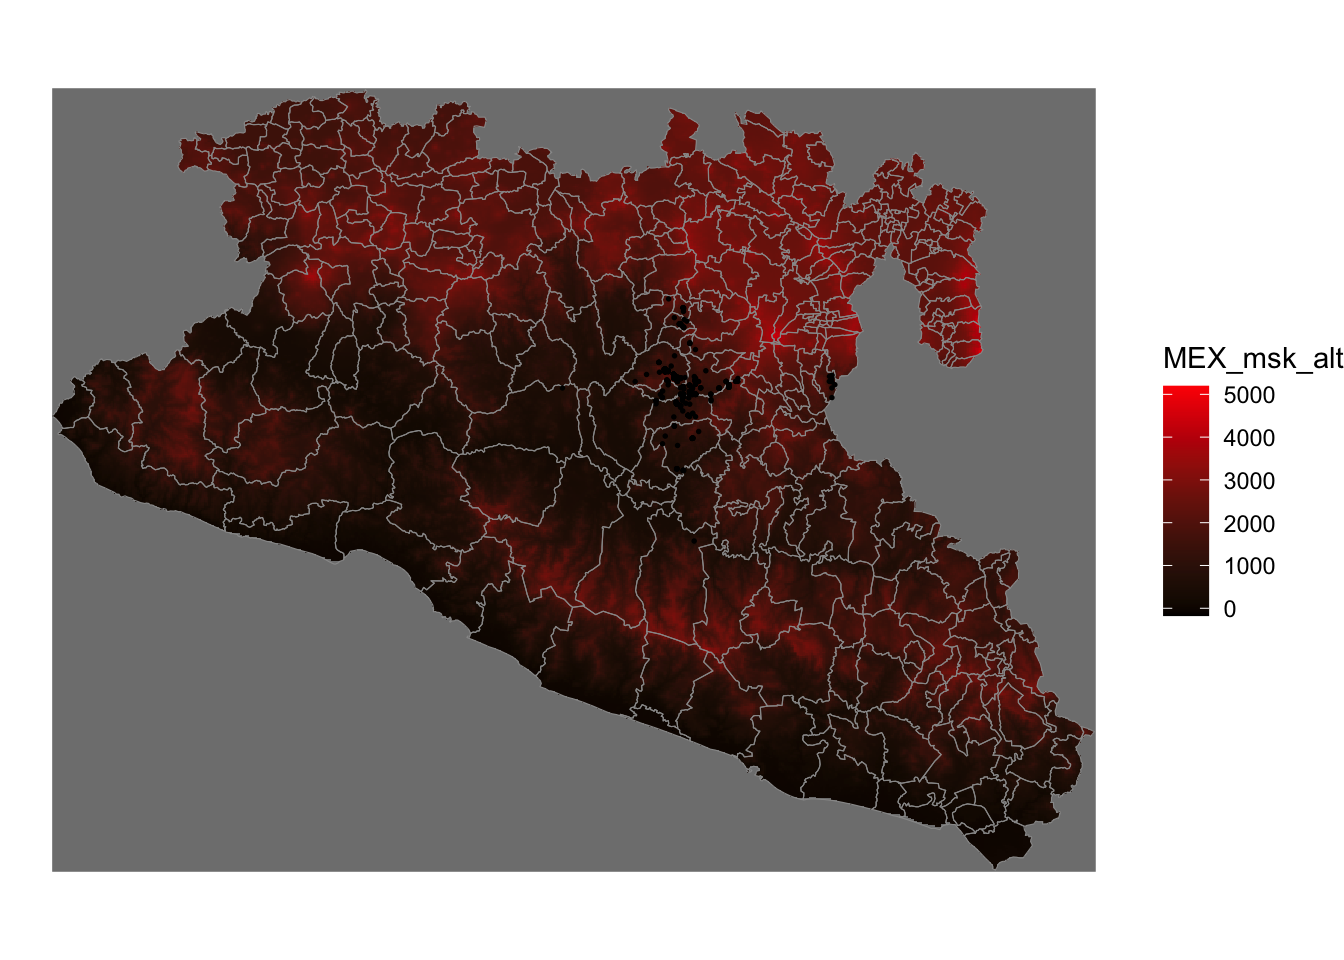
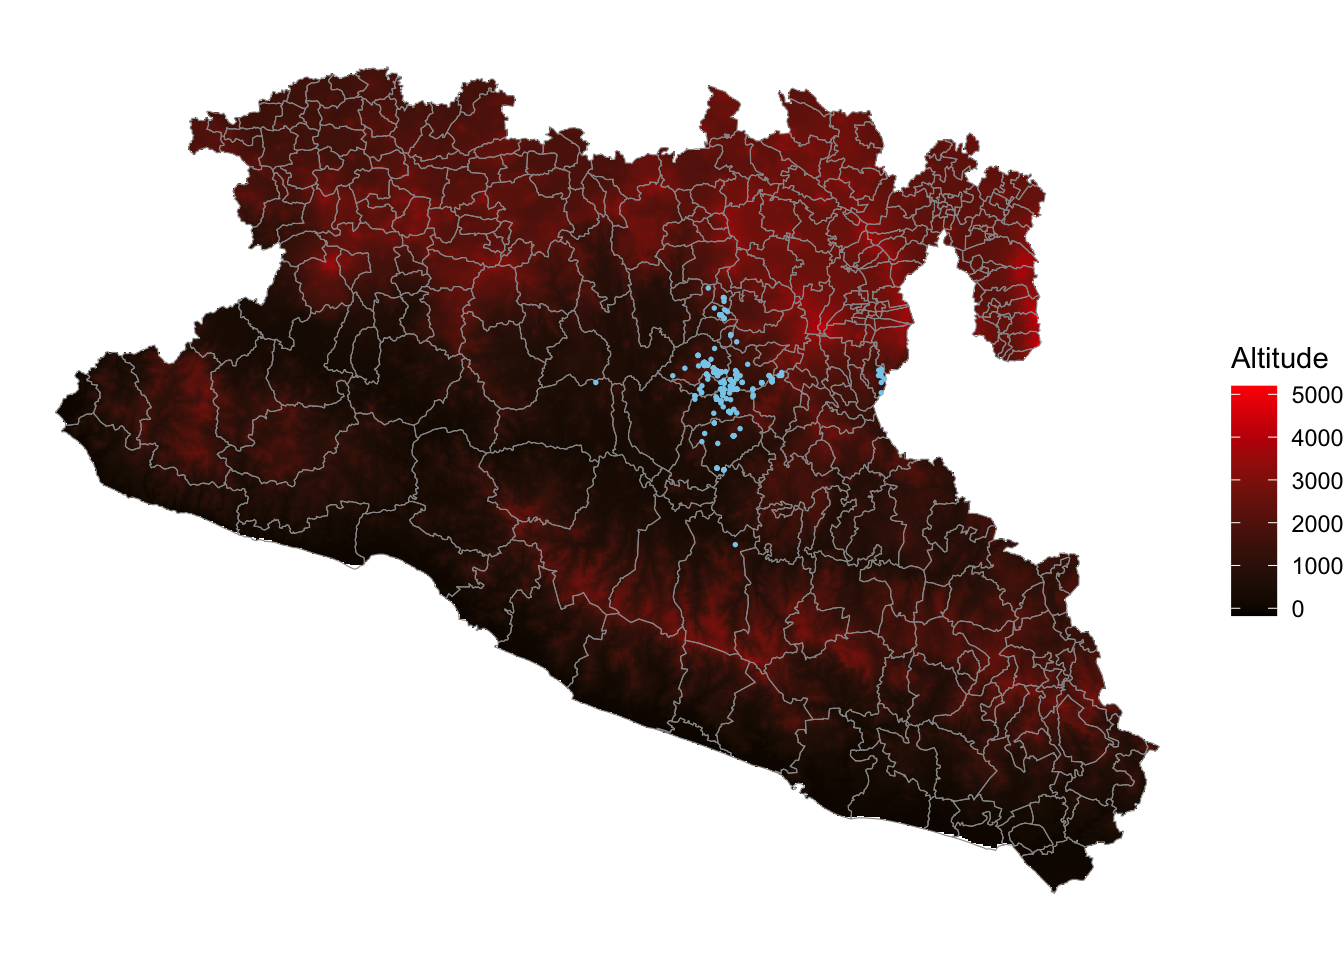
updated spatial

diff --git a/2a_VectorsRasters.html b/2a_VectorsRasters.html
@@ -758,11 +758,11 @@ together wit ggplot</h1>
 <pre class="r"><code>ggplot() +
   geom_stars(data = Mxst) +
   geom_sf(data = Area, fill = NA, col = &#39;grey60&#39;) +
-  geom_sf(data = capturesSp, cex = 0.3) +
+  geom_sf(data = capturesSp, cex = 0.3, col = &#39;skyblue&#39;) +
   theme_void() +
-  scale_fill_gradient(low = &#39;black&#39;, high = &#39;red&#39;)</code></pre>
+  scale_fill_gradient(low = &#39;black&#39;, high = &#39;red&#39;, na.value = NA) +
+  labs(fill = &#39;Altitude&#39;)</code></pre>
 <p><img src="2a_VectorsRasters_files/figure-html/unnamed-chunk-17-1.png" width="672" /></p>
-<hr />
 </div>
 <div id="getting-data-for-other-countriesregions" class="section level1"
 number="4">
@@ -787,6 +787,92 @@ ggplot() +
   geom_sf(data = Sp) +
   theme_void()</code></pre>
 <p><img src="2a_VectorsRasters_files/figure-html/unnamed-chunk-18-1.png" width="672" /></p>
+<hr />
+</div>
+<div id="cartography" class="section level1" number="5">
+<h1><span class="header-section-number">5</span> Cartography</h1>
+<p>Ok now that we are familiarized with spatial data and visualization,
+we can go more detailed into making a pretty map.</p>
+<p>First lets aggregate all the capture regarding the year:</p>
+<pre class="r"><code>cap &lt;- capturesSp %&gt;% # Captures data
+  count(Loc, wt = captures) %&gt;%  # count the number of captures by location
+  rename(captures = n) # rename the variable 
+
+# Lets see how it looks like
+ggplot(data = cap) +
+  geom_sf(data = Area) +
+  geom_sf(aes(size = captures), alpha = 0.5)</code></pre>
+<p><img src="2a_VectorsRasters_files/figure-html/unnamed-chunk-19-1.png" width="672" /></p>
+<div id="change-the-map-extent" class="section level2" number="5.1">
+<h2><span class="header-section-number">5.1</span> Change the map
+extent</h2>
+<p>Most of the data is concentrated in a specific region and its hard to
+see it clear, for this we will zoom in into the region with our points.
+We can use the function <code>lims()</code> to specify the x and y
+limits of our map. We will define the limits based on the bounding box
+of the captures data and save this to an object so we can use it
+later</p>
+<pre class="r"><code>bbox &lt;- st_bbox(capturesSp) # Get the bounding box
+bbox &lt;- lims(x = bbox[c(1, 3)], y = bbox[c(2, 4)]) # specify the limits and save to an object 
+
+# Visualize the map 
+ggplot() + # we set the canvas
+  geom_sf(data = Area,col = &#39;grey60&#39;) +
+  geom_sf(data = cap, aes(size = captures), alpha = 0.5) +
+  theme_void() +
+  scale_fill_gradient(low = &#39;black&#39;, high = &#39;red&#39;) +
+  scale_size(range = c(0.1, 3)) +
+  bbox</code></pre>
+<p><img src="2a_VectorsRasters_files/figure-html/unnamed-chunk-20-1.png" width="672" /></p>
+</div>
+<div id="scale-bar" class="section level2" number="5.2">
+<h2><span class="header-section-number">5.2</span> Scale bar</h2>
+<pre class="r"><code>library(ggspatial)
+
+ggplot() +
+  geom_sf(data = Area,col = &#39;grey60&#39;) +
+  geom_sf(data = cap, aes(size = captures), alpha = 0.5) +
+  theme_void() +
+  scale_fill_gradient(low = &#39;black&#39;, high = &#39;red&#39;) +
+  bbox +
+  annotation_scale(location = &#39;br&#39;, width_hint = 0.25, line_width = 0.2, height = unit(.03, &quot;in&quot;)) </code></pre>
+<p><img src="2a_VectorsRasters_files/figure-html/unnamed-chunk-21-1.png" width="672" /></p>
+</div>
+<div id="facets" class="section level2" number="5.3">
+<h2><span class="header-section-number">5.3</span> Facets</h2>
+<pre class="r"><code>ggplot(data = capturesSp) +
+  geom_sf(data = Area,col = &#39;grey60&#39;) +
+  geom_sf(size = 0.5, alpha = 0.5) +
+  theme_void() +
+  bbox +
+  facet_wrap(~year) +
+  theme_dark() +
+  theme(
+    axis.text = element_blank(),
+    axis.ticks = element_blank()
+  )</code></pre>
+<p><img src="2a_VectorsRasters_files/figure-html/unnamed-chunk-22-1.png" width="672" /></p>
+</div>
+<div id="legends" class="section level2" number="5.4">
+<h2><span class="header-section-number">5.4</span> Legends</h2>
+</div>
+<div id="names" class="section level2" number="5.5">
+<h2><span class="header-section-number">5.5</span> Names</h2>
+<pre class="r"><code>library(ggspatial)
+
+ggplot() +
+  geom_sf(data = Area,col = &#39;grey60&#39;) +
+  # geom_sf_text(data = Area, aes(label = NOMGEO), alpha = 0.6, col = &#39;grey90&#39;) +
+  geom_sf(data = capturesSp, cex = 0.3) +
+  theme_void() +
+  scale_fill_gradient(low = &#39;black&#39;, high = &#39;red&#39;) +
+  annotation_scale(location = &#39;br&#39;, width_hint = 0.25, line_width = 0.2, height = unit(.03, &quot;in&quot;)) +
+  annotation_north_arrow(location = &quot;tr&quot;, which_north = &quot;true&quot;, style = north_arrow_fancy_orienteering(text_size = 5), 
+                         height = unit(.6, &quot;in&quot;),
+                         width = unit(.6, &quot;in&quot;),
+                         pad_x = unit(0.05, &quot;in&quot;), pad_y = unit(0.05, &quot;in&quot;))</code></pre>
+<p><img src="2a_VectorsRasters_files/figure-html/unnamed-chunk-23-1.png" width="672" /></p>
+</div>
 </div>
 
 

diff --git a/index.html b/index.html
@@ -582,7 +582,7 @@ and Markdown</a>
 <a href="1b_RandTidyverse.html" style="     ">Data reduction</a>
 </td>
 <td style="text-align:left;border-right:1px solid;">
-<a href="" style="     ">Vectors and rasters</a>
+<a href="2a_VectorsRasters.html" style="     ">Vectors and rasters</a>
 </td>
 <td style="text-align:left;">
 Risk assessment in R I II
@@ -600,7 +600,7 @@ tidyverse</a>
 <a href="" style="     ">Joining datasets</a>
 </td>
 <td style="text-align:left;border-right:1px solid;">
-<a href="2a_VectorsRasters" style="     ">Cartography</a>
+<a href="2a_VectorsRasters.html" style="     ">Cartography</a>
 </td>
 <td style="text-align:left;">
 </td>
